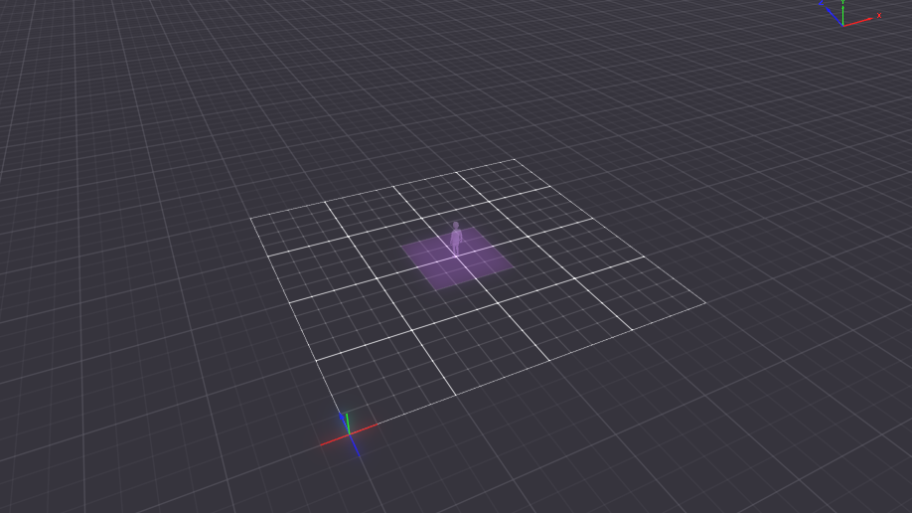
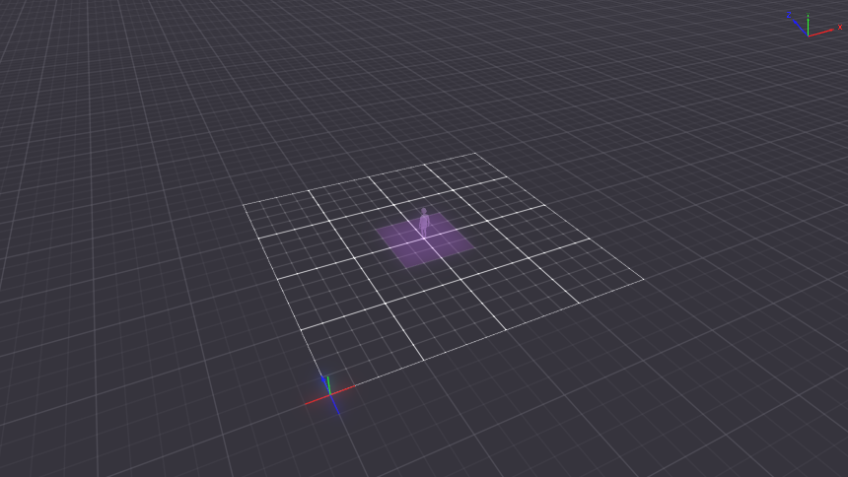
fix: scene feedback startup, star dimming and client logs
- Create fb:csv-current on first start, so later flushes don't hit a 404
  that the SDK logs as an ERROR
- Don't block server readiness on getSceneInformation; the version column
  fills in once it resolves
- Dim unselected stars with uiTransform opacity: a colour emoji ignores the
  Label colour tint
- Client logs for send, resend, ack and give-up ([FEEDBACK] …)

Verified on a deployed World: rows from three consecutive deploys merged
into one CSV part without loss or duplicates.

diff --git a/scenes/scene-feedback/src/client/state.ts b/scenes/scene-feedback/src/client/state.ts
@@ -113,8 +113,9 @@ export function closeFeedback(): void {
   feedback.question = undefined
 }
 
-function send(): void {
+function send(kind: 'send' | 'resend' = 'send'): void {
   if (!feedback.question) return
+  console.log(`[FEEDBACK] ${kind} ${requestId} ${feedback.question.id}`)
   lastSentAt = Date.now()
   void room.send('submitResponse', {
     requestId,
@@ -129,6 +130,7 @@ function send(): void {
 
 export function setupFeedbackState(): void {
   room.onMessage('responseSaved', (data) => {
+    console.log(`[FEEDBACK] ack ${data.requestId} ok=${data.ok}`)
     if (feedback.phase !== 'sending' || data.requestId !== requestId) return
     if (data.ok) {
       feedback.phase = 'saved'
@@ -142,8 +144,11 @@ export function setupFeedbackState(): void {
     pollHeartbeat()
     const now = Date.now()
     if (feedback.phase === 'sending') {
-      if (now - firstSentAt > GIVE_UP_MS) feedback.phase = 'failed'
-      else if (now - lastSentAt > RESEND_MS && isServerAlive()) send()
+      if (now - firstSentAt > GIVE_UP_MS) {
+        console.log(`[FEEDBACK] no ack for ${requestId} after ${GIVE_UP_MS / 1000} s, giving up`)
+        feedback.phase = 'failed'
+      }
+      else if (now - lastSentAt > RESEND_MS && isServerAlive()) send('resend')
     } else if (feedback.phase === 'saved' && now - savedAt > SAVED_HOLD_MS + SAVED_FADE_MS) {
       closeFeedback()
     }

diff --git a/scenes/scene-feedback/src/server/server.ts b/scenes/scene-feedback/src/server/server.ts
@@ -44,9 +44,10 @@ export async function startServer(): Promise<void> {
     if (context) receiveResponse(data, context.from)
   })
 
-  sceneVersion = await readSceneVersion()
+  // Not awaited: readiness must never hang on a runtime call that isn't Storage.
+  void readSceneVersion().then((version) => (sceneVersion = version))
   await loadCurrentPart()
-  console.log(`[SERVER] Feedback server ready, version ${sceneVersion}, writing ${partKey(currentPart)}, ${countPlayers()} player(s)`)
+  console.log(`[SERVER] Feedback server ready, writing ${partKey(currentPart)}, ${countPlayers()} player(s)`)
 }
 
 // The deployed entity id changes on every deploy, so rows from different builds
@@ -70,7 +71,10 @@ async function readSceneVersion(): Promise<string> {
 async function loadCurrentPart(): Promise<void> {
   for (;;) {
     try {
-      currentPart = Math.max(1, (await Storage.get<number>(CURRENT_PART_KEY, { fresh: true })) ?? 1)
+      const stored = await Storage.get<number>(CURRENT_PART_KEY, { fresh: true })
+      currentPart = Math.max(1, stored ?? 1)
+      // Written once so later flushes don't hit a 404 (the SDK logs each as an ERROR).
+      if (stored === null) await Storage.set(CURRENT_PART_KEY, currentPart)
       return
     } catch (e) {
       console.log('[SERVER] Could not read the current CSV part, retrying:', e)

diff --git a/scenes/scene-feedback/src/client/ui.tsx b/scenes/scene-feedback/src/client/ui.tsx
@@ -103,16 +103,17 @@ function questionPanel() {
   )
 }
 
-// Unselected stars are the same emoji, dimmed.
+// Unselected stars are the same emoji, dimmed with opacity: a colour emoji
+// ignores the Label's colour tint.
 function star(value: number, editable: boolean) {
   const lit = value <= feedback.rating
   return (
     <UiEntity
       key={value}
-      uiTransform={{ width: 72, height: 72, margin: 6, justifyContent: 'center', alignItems: 'center' }}
+      uiTransform={{ width: 72, height: 72, margin: 6, justifyContent: 'center', alignItems: 'center', opacity: lit ? 1 : 0.25 }}
       onMouseDown={editable ? () => setRating(value) : undefined}
     >
-      <Label value="⭐" fontSize={48} color={lit ? Color4.White() : Color4.create(1, 1, 1, 0.25)} />
+      <Label value="⭐" fontSize={48} />
     </UiEntity>
   )
 }
